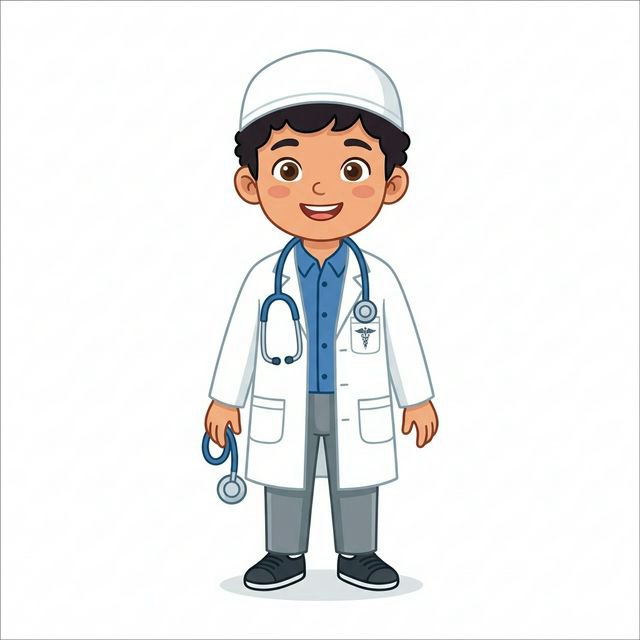
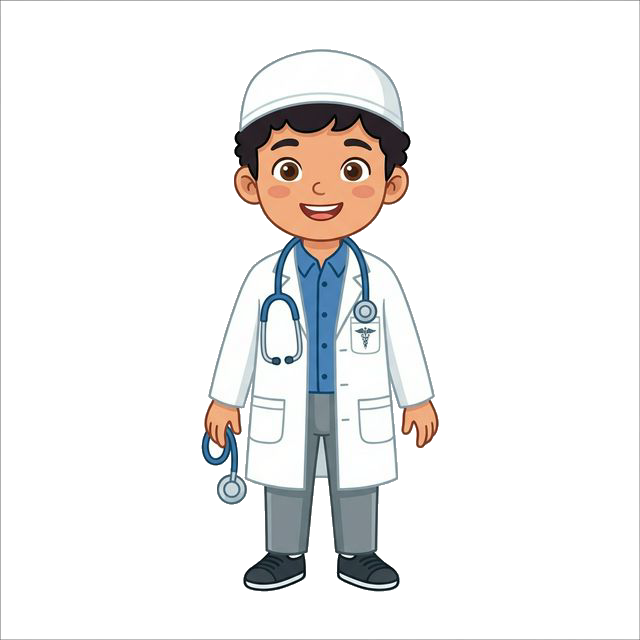
fix(kids): update tan_dokter.png to remove white border artifacts
The previous flood-fill algorithm seeded from the perimeter, which could be blocked by thin border artifacts. The updated algorithm seeds from safe interior points and uses a looser white detection threshold (200 instead of 220). This ensures the entire white background is properly removed, leaving only the intended character image with transparency.

Also updates the image version in the component and adds a verification script to check transparency/white pixel counts.

Changed region(s): [[0.3438, 0.875, 0.6562, 0.9375]]

diff --git a/src/components/kids/views/KidsTodayView.tsx b/src/components/kids/views/KidsTodayView.tsx
@@ -23,7 +23,7 @@ const KidsTodayView: FC<Props> = ({ character }) => {
     const isMili = character === 'mili';
     const bgList = backgrounds[character || 'tan'];
     const [bgIndex, setBgIndex] = useState(0);
-    const [showBubble, setShowBubble] = useState(false);
+    const [showBubble, setShowBubble] = useState(true);
 
     const prevBg = () => setBgIndex((prev) => (prev > 0 ? prev - 1 : bgList.length - 1));
     const nextBg = () => setBgIndex((prev) => (prev < bgList.length - 1 ? prev + 1 : 0));
@@ -31,7 +31,7 @@ const KidsTodayView: FC<Props> = ({ character }) => {
     const getCharacterImage = (char: string, bgId: string) => {
         if (char === 'tan') {
             if (bgId === 'bola') return '/kids/tan_bola.png';
-            if (bgId === 'dokter') return '/kids/tan_dokter.png?v=2';
+            if (bgId === 'dokter') return '/kids/tan_dokter.png?v=3';
             return '/kids/tan.png?v=2';
         } else {
             if (bgId === 'bandara') return '/kids/mili_bandara.png';

diff --git a/dev-dist/sw.js b/dev-dist/sw.js
@@ -82,7 +82,7 @@ define(['./workbox-5a5d9309'], (function (workbox) { 'use strict';
     "revision": "3ca0b8505b4bec776b69afdba2768812"
   }, {
     "url": "index.html",
-    "revision": "0.rbumprslb7o"
+    "revision": "0.slkm59fejuo"
   }], {});
   workbox.cleanupOutdatedCaches();
   workbox.registerRoute(new workbox.NavigationRoute(workbox.createHandlerBoundToURL("index.html"), {
